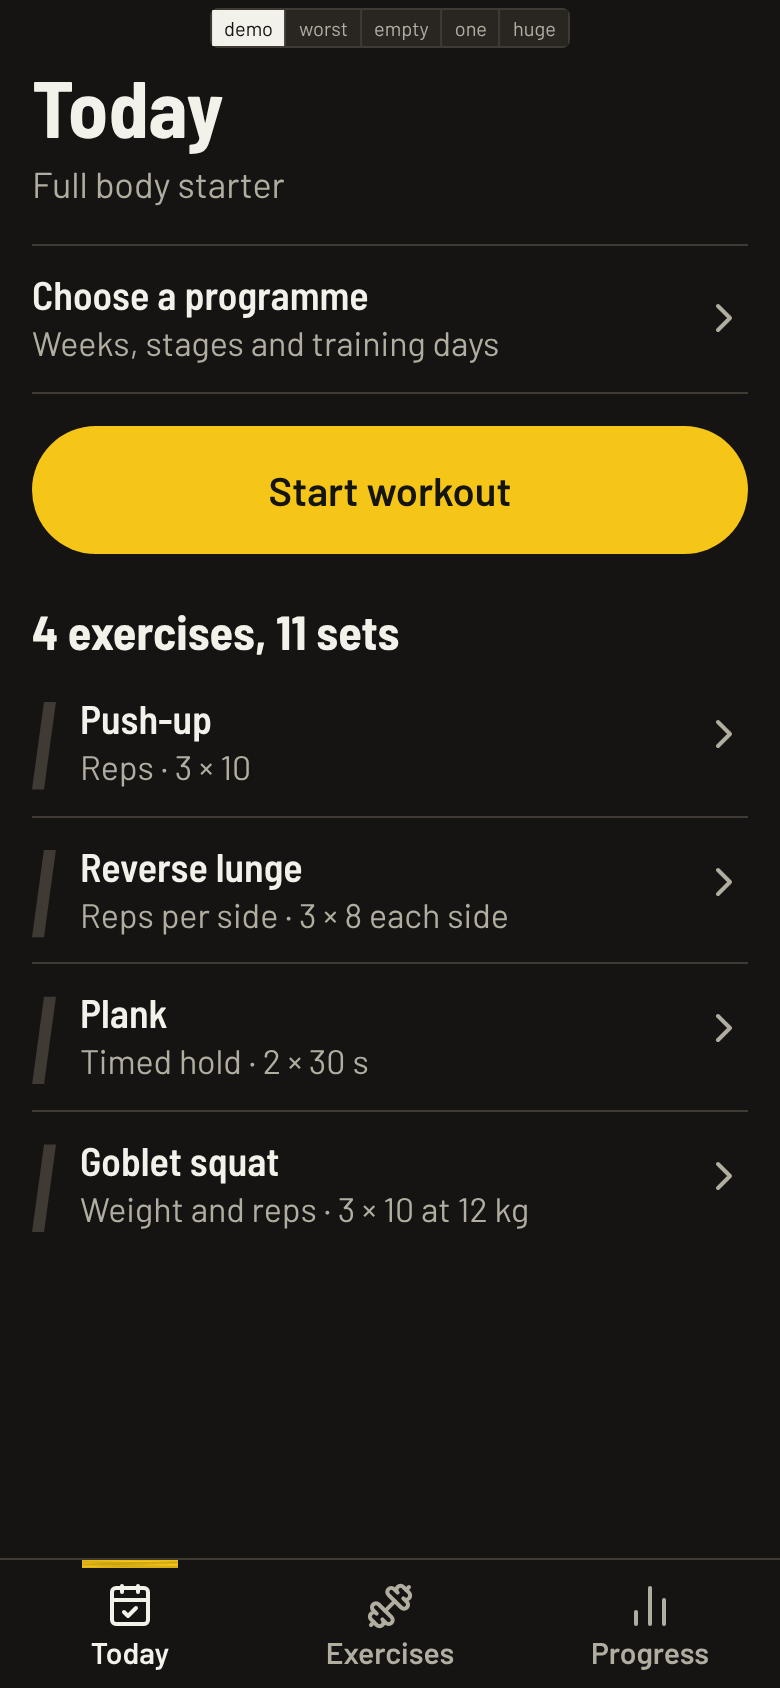
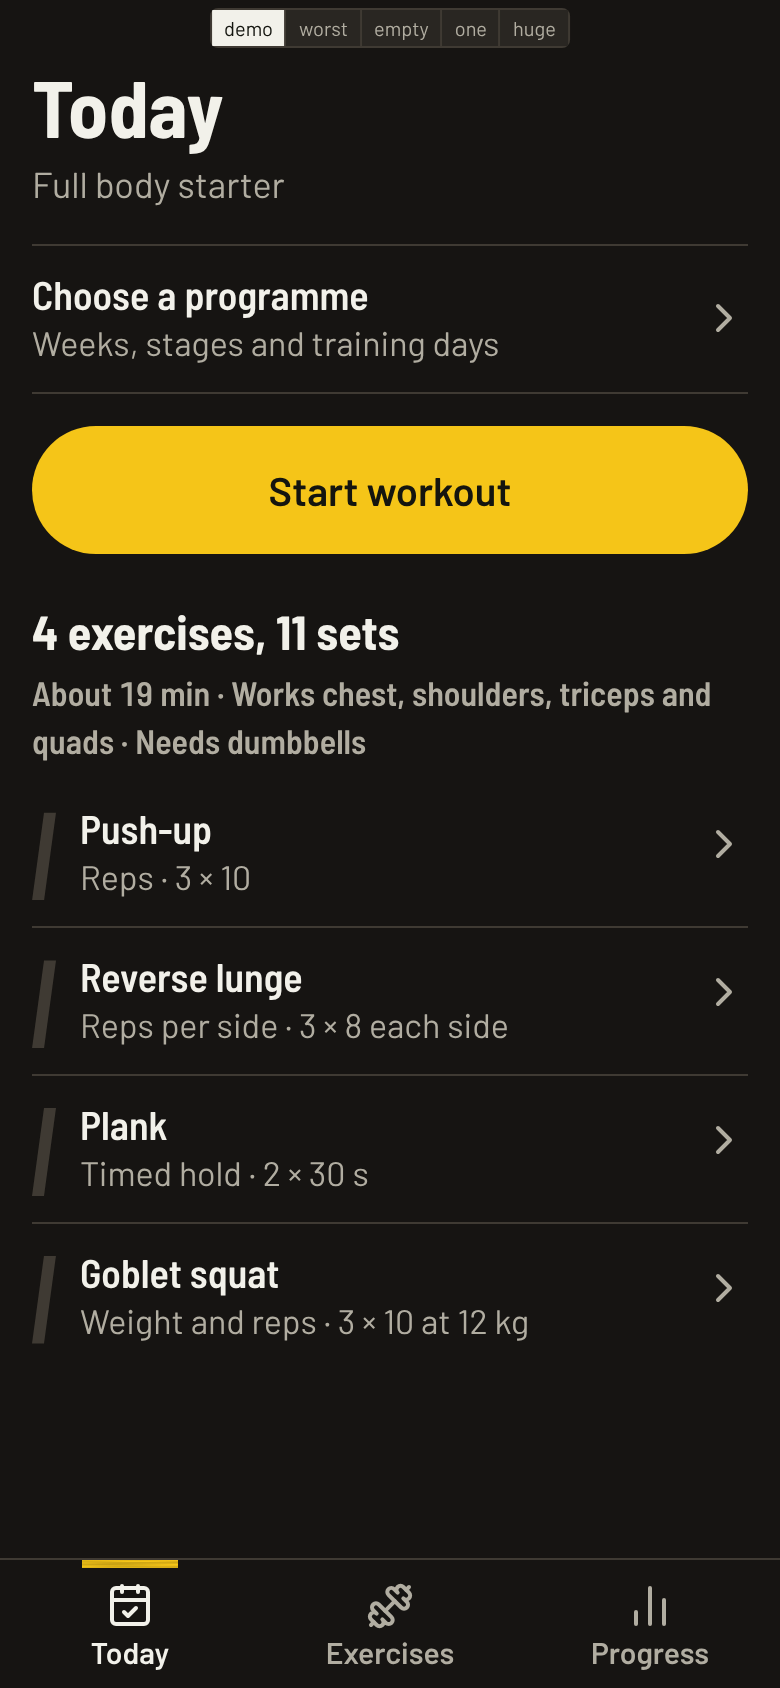
Today session card shows length, muscles and equipment
Claude-Session: https://claude.ai/code/session_01QSdbTS6XM65aGeFM4K1ddu

diff --git a/src/screens/TodayScreen.tsx b/src/screens/TodayScreen.tsx
@@ -3,6 +3,7 @@ import type { CSSProperties } from 'react'
 import { EmptySlots } from '../components/EmptySlots'
 import { EmptyState } from '../components/EmptyState'
 import { ExerciseRow } from '../components/ExerciseRow'
+import { joinList, sessionFacts } from '../lib/sessionFacts'
 import type { Session } from '../types'
 
 interface TodayScreenProps {
@@ -16,6 +17,7 @@ interface TodayScreenProps {
 }
 
 export function TodayScreen({ session, onStart, onChoose, onOpen, programme, onProgramme }: TodayScreenProps) {
+  const facts = sessionFacts(session)
   const sets = session.exercises.reduce((n, e) => n + e.sets, 0)
   return (
     <div
@@ -69,6 +71,11 @@ export function TodayScreen({ session, onStart, onChoose, onOpen, programme, onP
                 {session.exercises.length} {session.exercises.length === 1 ? 'exercise' : 'exercises'},{' '}
                 {sets} {sets === 1 ? 'set' : 'sets'}
               </h2>
+              <p className="num m-0 pb-1 text-[17px] text-pretty text-muted" data-testid="session-facts">
+                About {facts.minutes} min
+                {facts.muscles.length > 0 && ` · Works ${joinList(facts.muscles.slice(0, 4))}`}
+                {` · ${facts.equipment}`}
+              </p>
               <ul className="m-0 flex list-none flex-col p-0">
                 {session.exercises.map((e) => (
                   <ExerciseRow key={e.id} exercise={e} clamp onOpen={onOpen} />

diff --git a/src/lib/sessionFacts.ts b/src/lib/sessionFacts.ts
@@ -1,0 +1,34 @@
+import { EQUIPMENT_LABELS } from './library'
+import type { Session } from '../types'
+
+const WORK_SECONDS_PER_SET = 45
+
+function joinList(items: string[]): string {
+  if (items.length <= 1) return items[0] ?? ''
+  return `${items.slice(0, -1).join(', ')} and ${items[items.length - 1]}`
+}
+
+export interface SessionFacts {
+  /** A rough length: about 45 seconds of work per set plus the rest between sets. */
+  minutes: number
+  muscles: string[]
+  /** What the session needs, or "No equipment". */
+  equipment: string
+}
+
+export function sessionFacts(session: Session): SessionFacts {
+  const sets = session.exercises.reduce((n, e) => n + e.sets, 0)
+  const minutes = Math.max(1, Math.round((sets * (WORK_SECONDS_PER_SET + session.restSeconds)) / 60))
+  const muscles: string[] = []
+  const gear: string[] = []
+  for (const e of session.exercises) {
+    for (const m of e.muscles ?? []) if (!muscles.includes(m)) muscles.push(m)
+    if (e.equipment && e.equipment !== 'none') {
+      const label = EQUIPMENT_LABELS[e.equipment].toLowerCase()
+      if (!gear.includes(label)) gear.push(label)
+    }
+  }
+  return { minutes, muscles, equipment: gear.length ? `Needs ${joinList(gear)}` : 'No equipment' }
+}
+
+export { joinList }

diff --git a/tests/tabs.spec.ts b/tests/tabs.spec.ts
@@ -157,3 +157,11 @@ test('Today keeps one tape colour beside the button, Exercises keys rows by type
   await page.goto('/?stage=exercises')
   await expect(page.locator('[data-testid=exercise-list] li .tape-fill')).toHaveCount(19)
 })
+
+test('Today states the length, muscles and equipment of the session', async ({ page }) => {
+  await page.goto('/?stage=today')
+  const facts = page.getByTestId('session-facts')
+  await expect(facts).toContainText('About ')
+  await expect(facts).toContainText('Works chest')
+  await expect(facts).toContainText('Needs dumbbells')
+})

diff --git a/src/types.ts b/src/types.ts
@@ -21,6 +21,8 @@ export interface Exercise {
   cue: string
   equipment?: EquipmentId
   level?: LevelId
+  /** Placeholder muscles worked, in sentence case. */
+  muscles?: string[]
 }
 
 export interface Session {

diff --git a/docs/overnight-queue.md b/docs/overnight-queue.md
@@ -4,7 +4,7 @@ Rules: one commit per feature, push after each, tests after each feature, one re
 
 ## Batch A: Programme and Today
 - [x] Stage-move popup with "Cancel" and "Switch to stage 2" (sheet row 61)
-- [ ] Muscles on exercises, shown on the Today session card (row 43)
+- [x] Muscles on exercises, shown on the Today session card (row 43)
 - [ ] Clear-all and restart for entries and programme, with a confirm
 - [ ] Batch A review and fixes
 
